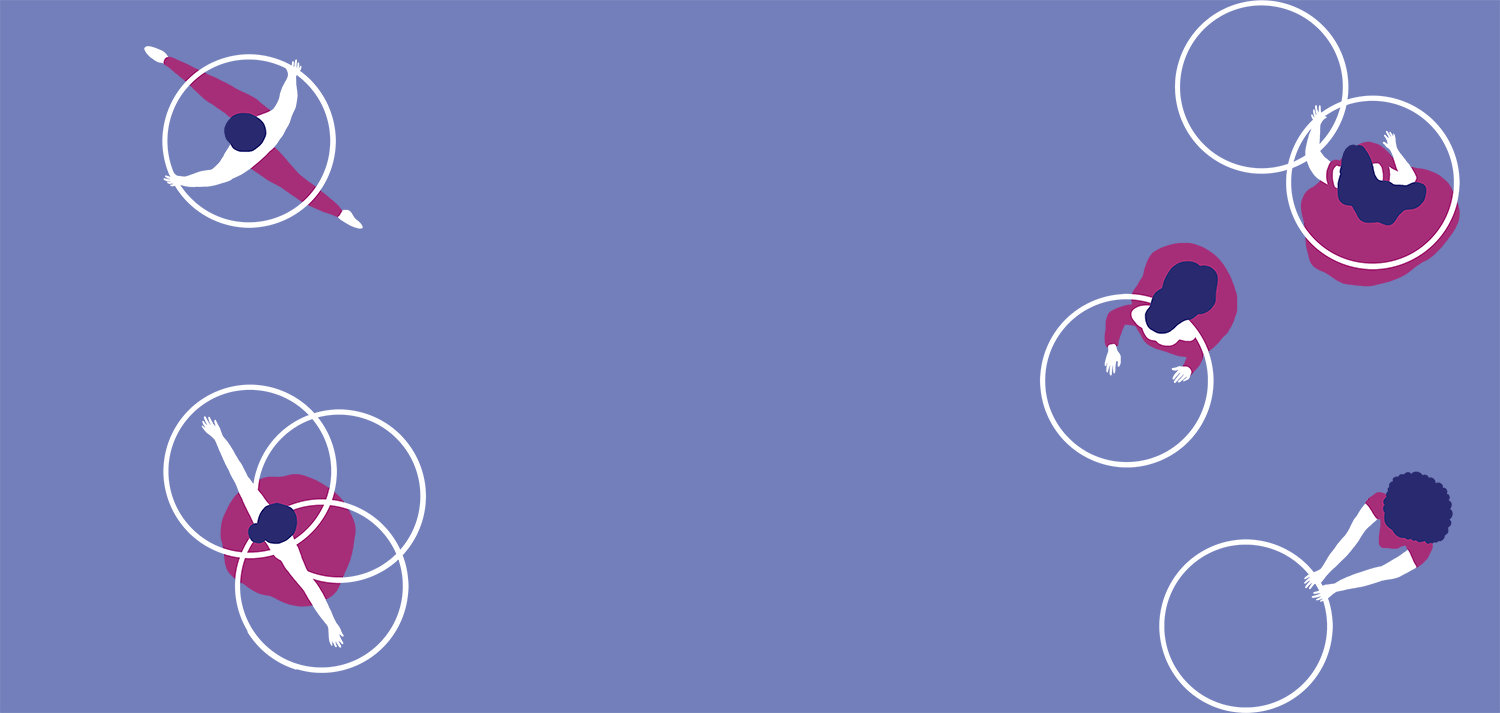
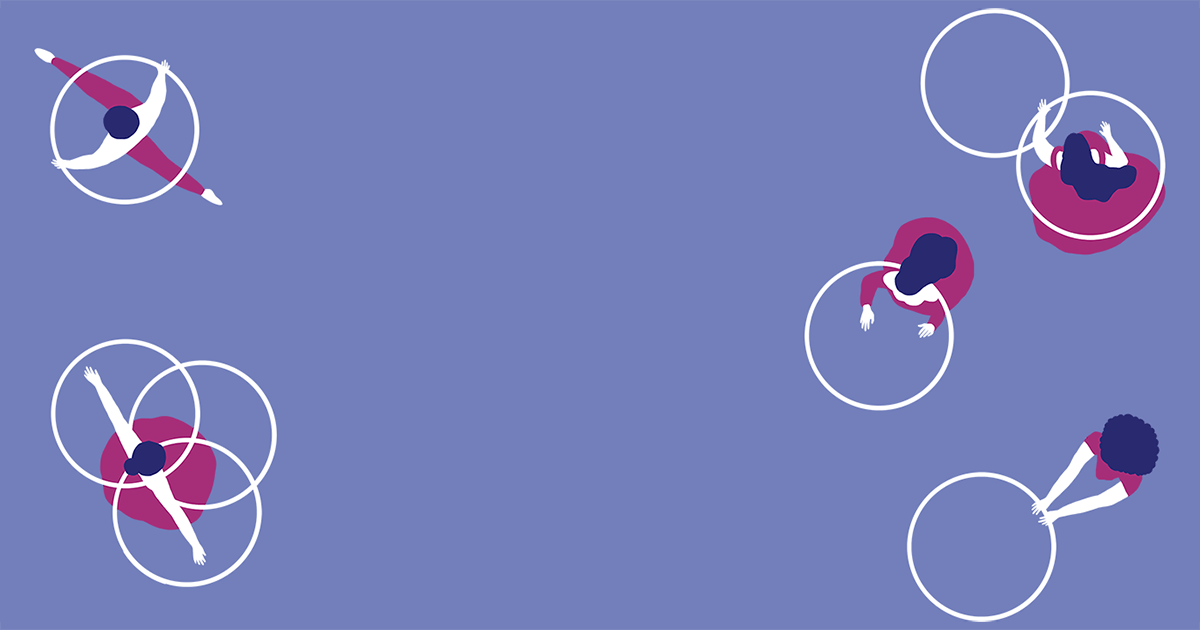
Twitter facebook meilleur images

diff --git a/index.html b/index.html
@@ -3,20 +3,25 @@
   <head>
     <meta charset="UTF-8">
     <title>Circle Floow — HoopDance Toulouse</title>
-    <!-- <meta name="description" content="TODO"> -->
+    <meta name="description" content="Association de HoopDance Toulousaine.">
     <meta name="viewport" content="width=device-width, initial-scale=1">
     <meta name="format-detection" content="telephone=no">
 
     <link rel="canonical" href="http://circlefloow.com/">
     <meta property="og:locale" content="fr_FR">
     <meta property="og:type" content="website">
-    <meta property="og:title" content="Circle Floow — HoopDance Toulouse">
+    <meta property="og:title" content="Circle Floow — HoopDance">
+    <meta property="og:description" content="Association de HoopDance Toulousaine.">
     <meta property="og:url" content="http://circlefloow.com/">
     <meta property="og:site_name" content="Circle Floow">
     <meta property="og:image" content="http://circlefloow.com/img/circle_floow_bg.png">
+    <meta property="og:image:width" content="1200">
+    <meta property="og:image:height" content="630">
+    <meta property="og:site_name" content="Circle Floow">
     <meta name="twitter:card" content="summary_large_image">
-    <meta name="twitter:title" content="Circle Floow — HoopDance Toulouse">
-    <meta name="twitter:image" content="http://circlefloow.com/img/circle_floow_bg.png">
+    <meta name="twitter:title" content="Circle Floow — HoopDance">
+    <meta name="twitter:description" content="Association de HoopDance Toulousaine.">
+    <meta name="twitter:image" content="http://circlefloow.com/img/circle_floow_bg_twitter.png">
     <script type="application/ld+json">{"@context":"http:\/\/schema.org","@type":"WebSite","@id":"#website","url":"http:\/\/circlefloow.com\/","name":"Circle Floow"}</script>
     <script type="application/ld+json">{"@context":"http:\/\/schema.org","@type":"Organization","url":"http:\/\/circlefloow.com\/","sameAs":["https:\/\/www.facebook.com\/circlefloow\/","https:\/\/www.instagram.com\/circlefloow\/"],"@id":"#organization","name":"Circle Floow","logo":"http:\/\/circlefloow.com\/img\/circle_floow_logo.png"}</script>
 
